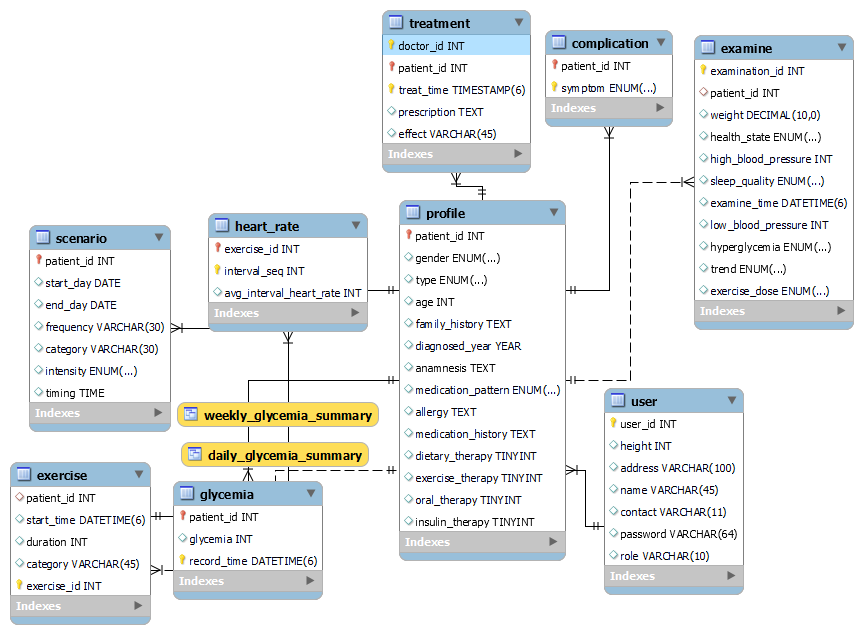
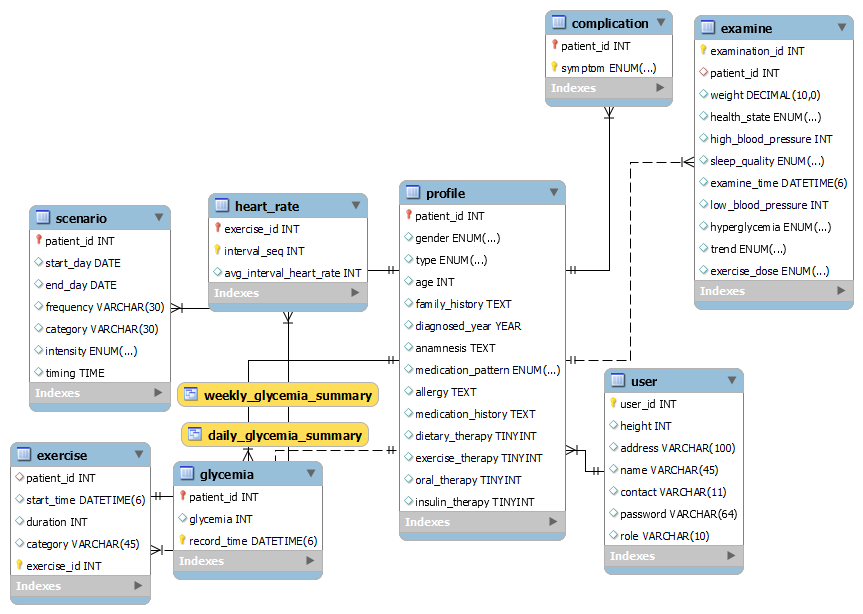
remove the table treatment

Changed region(s): [[0.0, 0.0, 0.9942, 0.9593], [0.6628, 0.5879, 0.8737, 0.9593], [0.6628, 0.4332, 0.6929, 0.4642]]

diff --git a/README.md b/README.md
@@ -7,5 +7,5 @@
 
 ## 数据库模式概述	
 
-	核心表是user，user的role可以是医生，患者，护士，管理员等等，现在有表doctor和profile，doctor表示医生相关的基本信息，working_hours表示医生的值班时间，profile表示患者的一些固定的和易表达的个人档案，比如既往病史，家族史，过敏史，并发症，身高，治疗方法，确诊年份，性别，地址，患糖尿病类型(I/II/妊娠)等等，complication表示并发症。examine表示定期检查后获得的一些身体指标，exercise表示患者进行的活动，heart_rate记录每个活动期间的每隔3分钟的平均心率。insulin表示胰岛素使用情况，treatment表示就诊情况，glycemia表示定期的血糖检测情况。
+	核心表是user，user的role可以是患者，管理员等等，现在有表profile，profile表示患者的一些固定的和易表达的个人档案，比如既往病史，家族史，过敏史，并发症，身高，治疗方法，确诊年份，性别，地址，患糖尿病类型(I/II/妊娠)等等，complication表示并发症。examine表示定期检查后获得的一些身体指标，exercise表示患者进行的活动，heart_rate记录每个活动期间的每隔3分钟的平均心率。glycemia表示定期的血糖检测情况。
 
